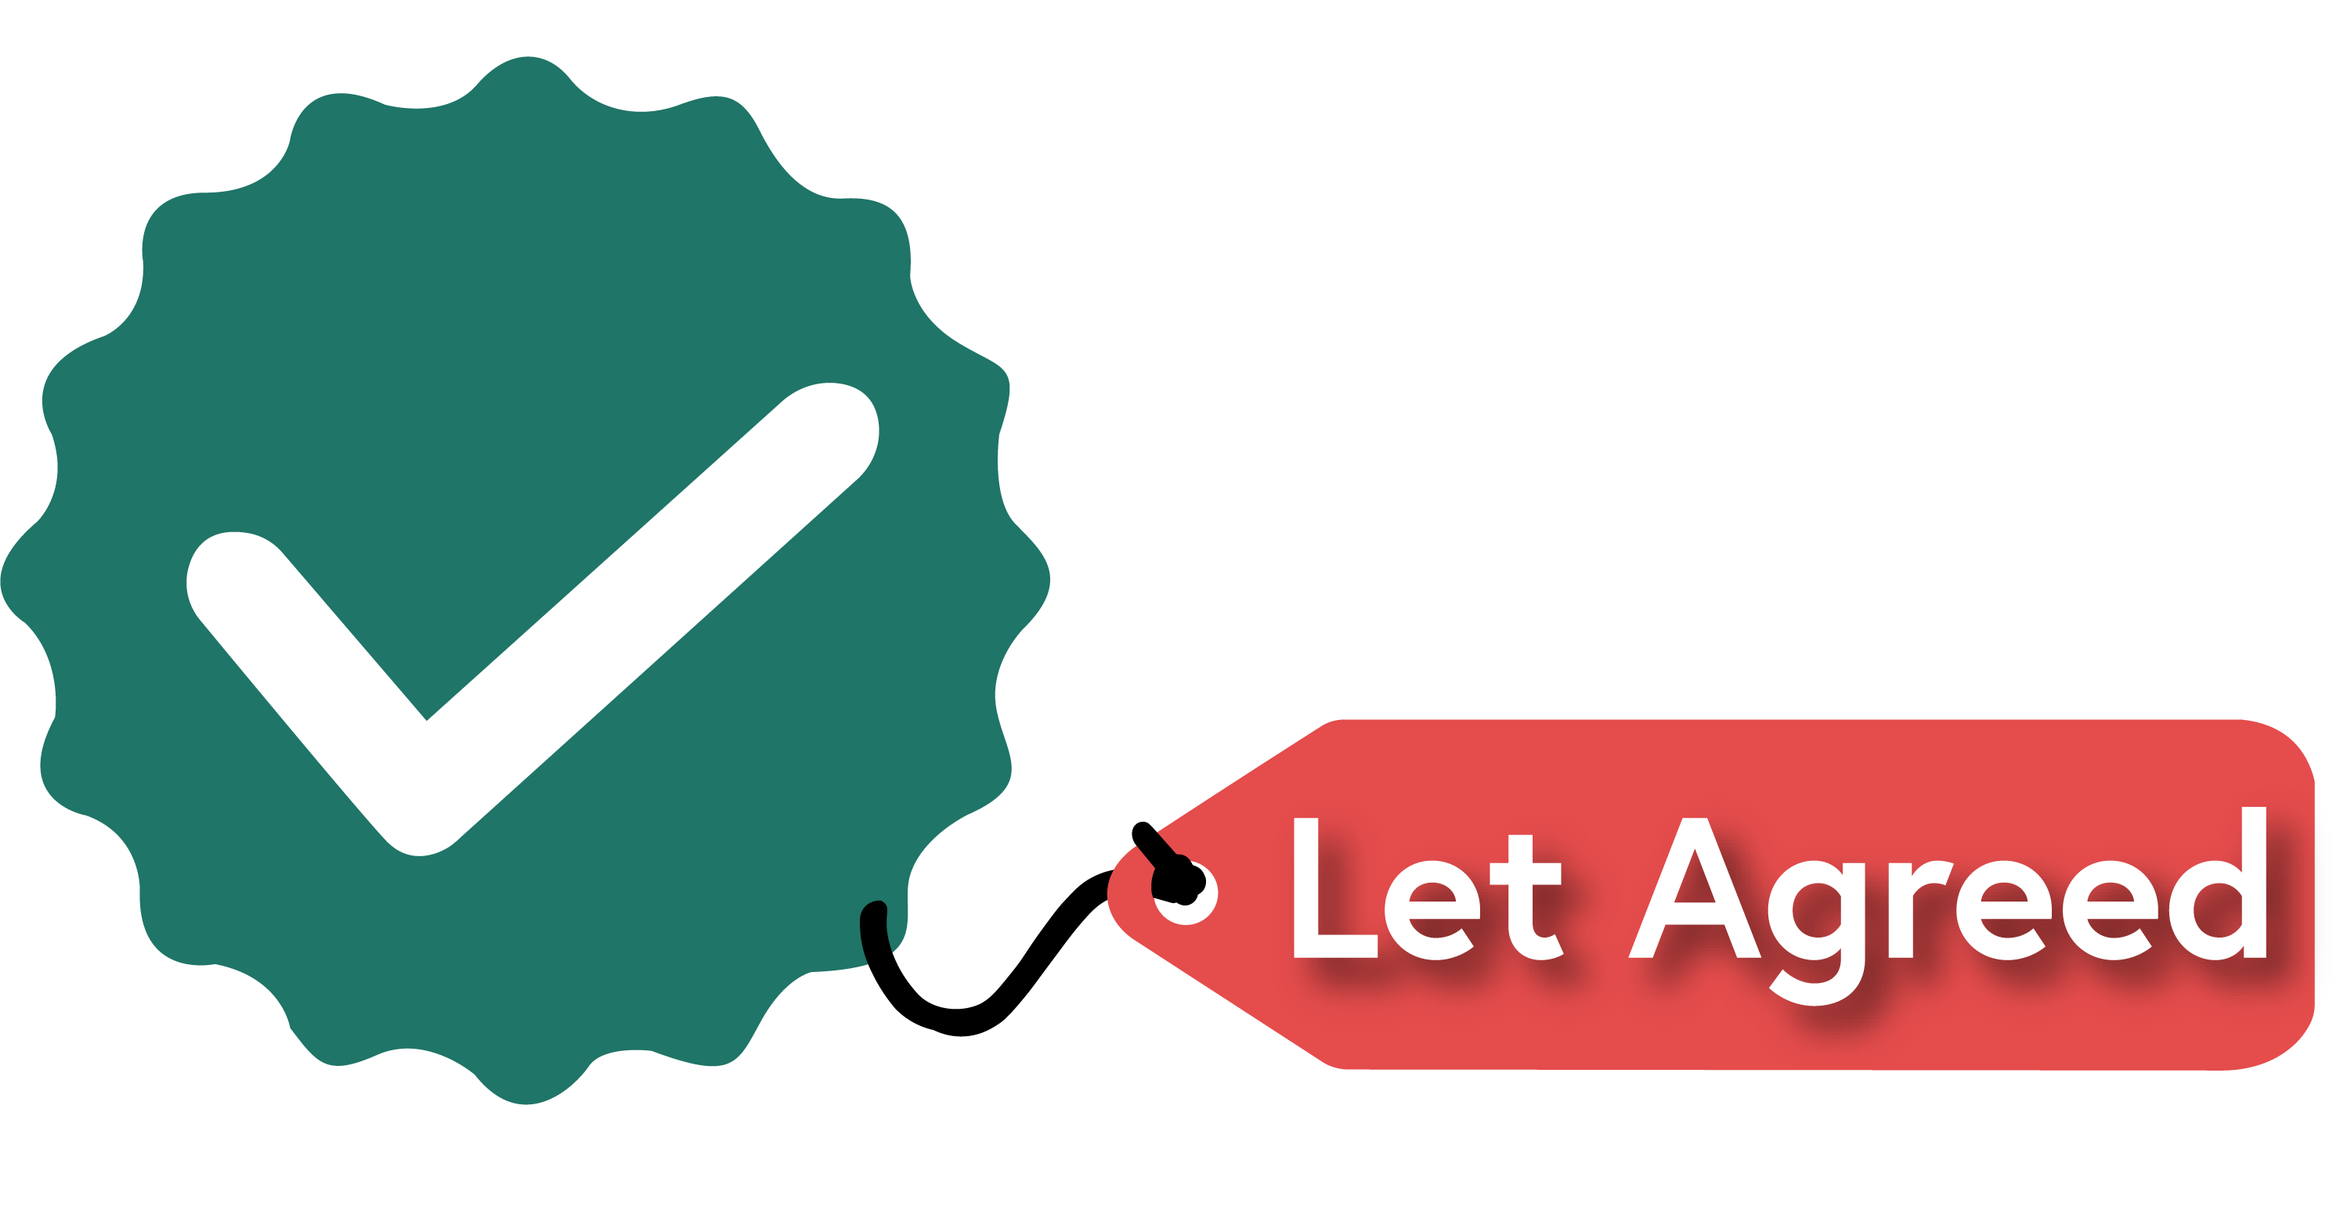
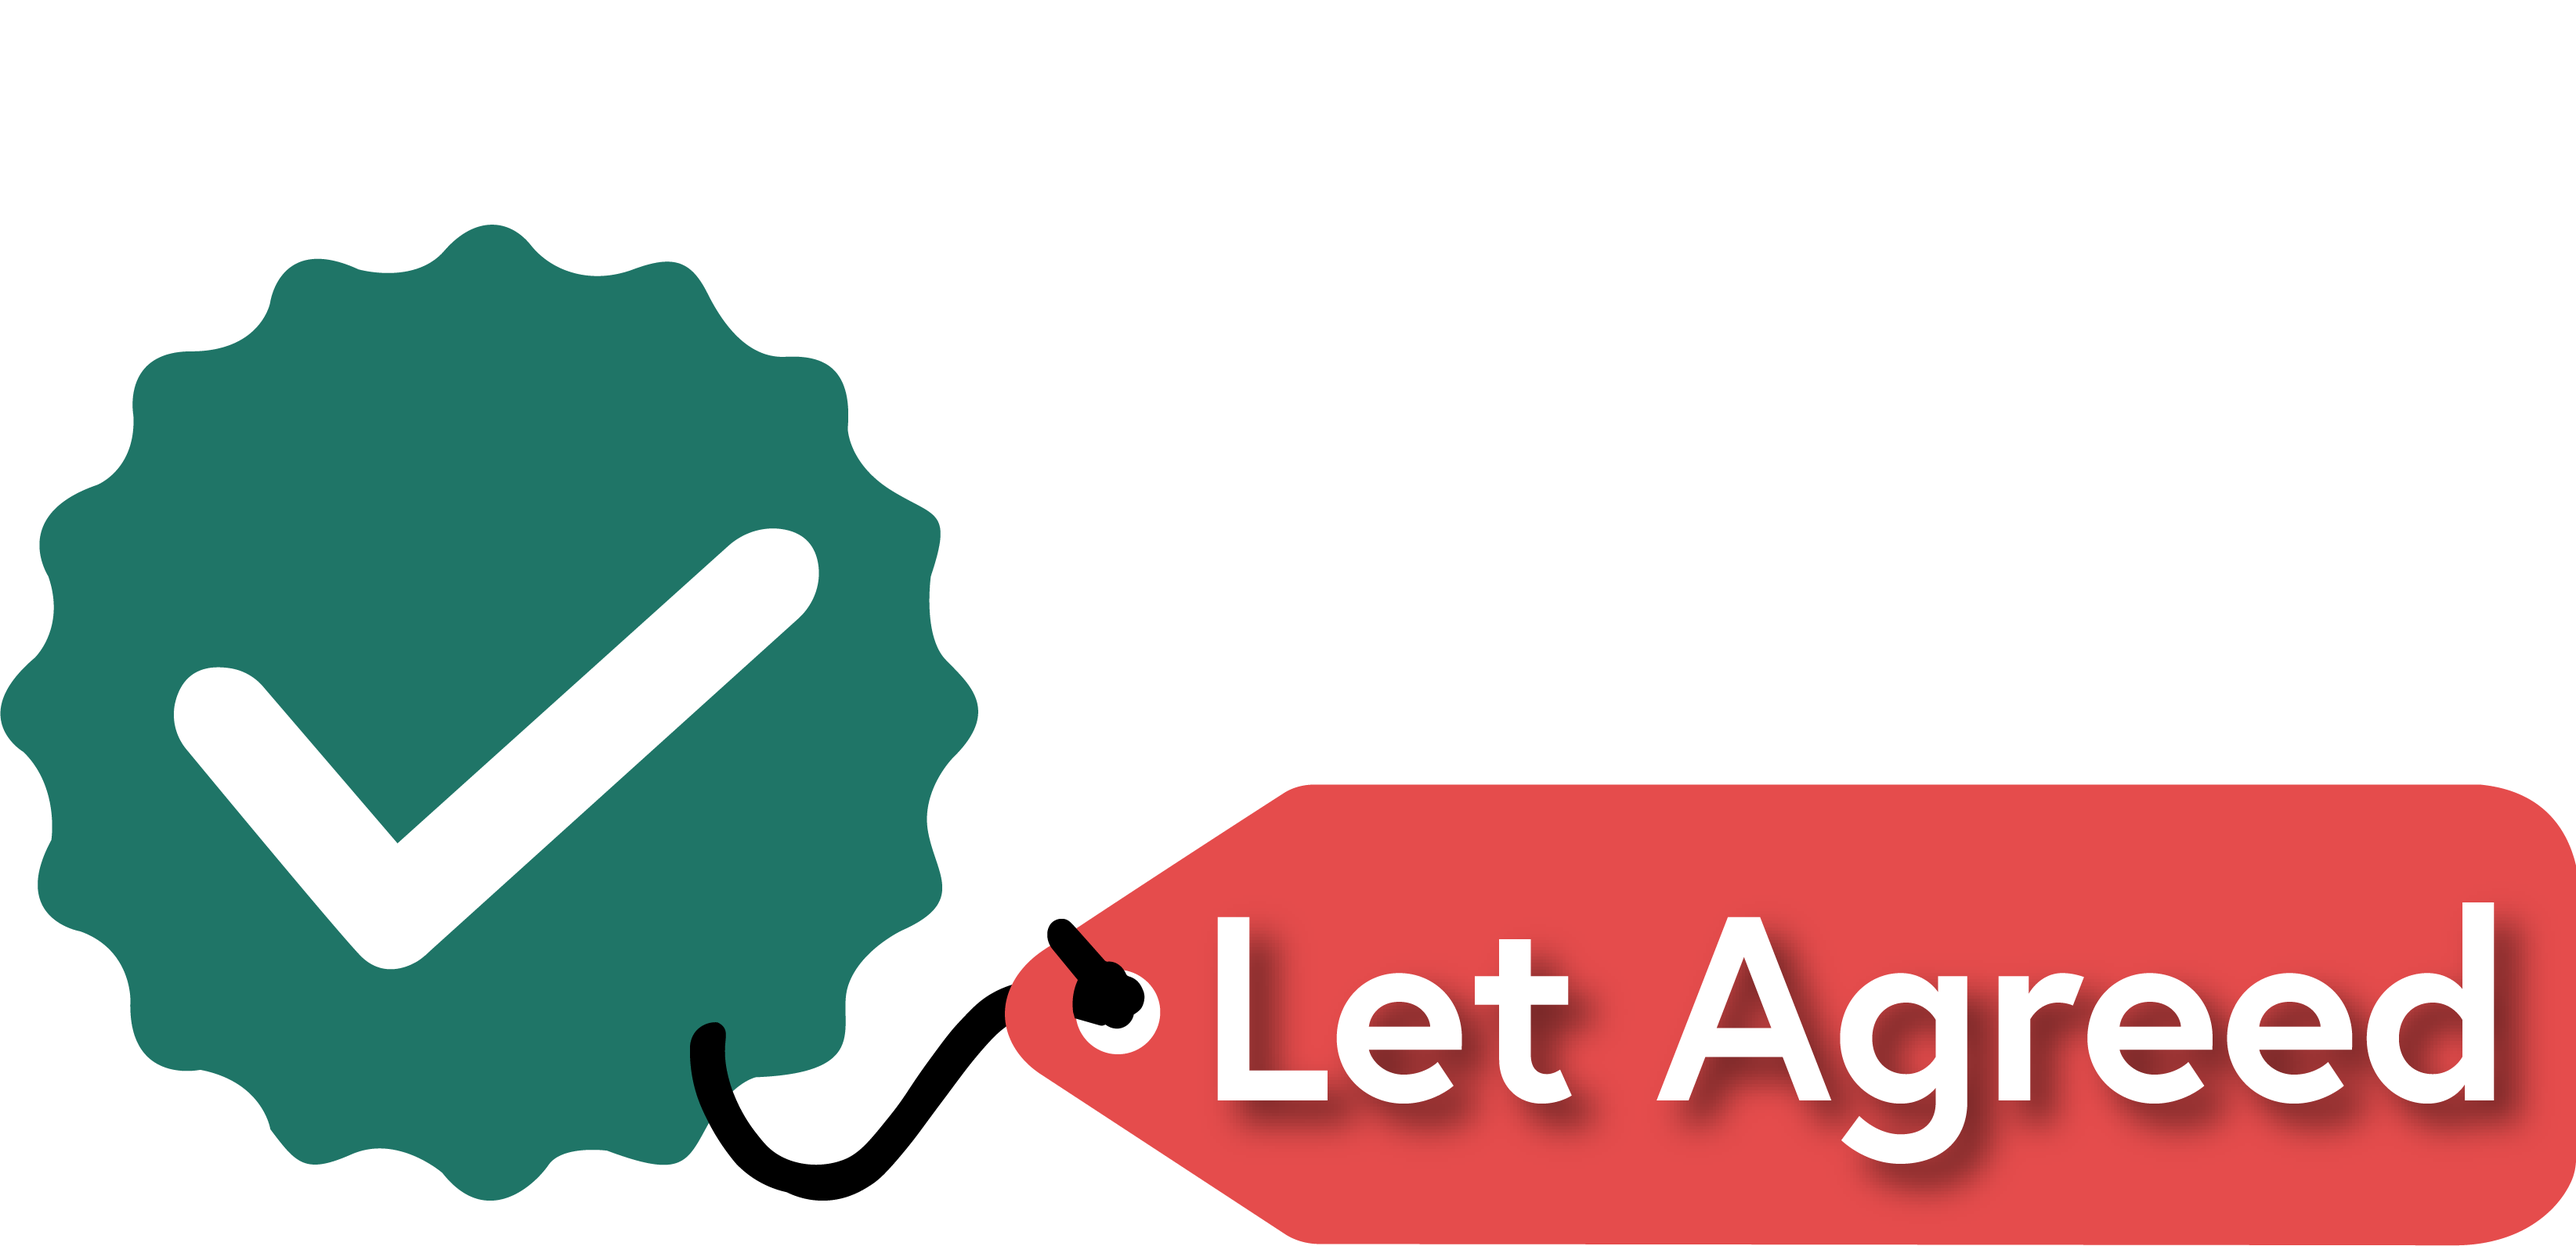
RMH

diff --git a/ht/counterProject.html b/ht/counterProject.html
@@ -1,128 +1,123 @@
 <!DOCTYPE html>
 <html lang="en">
-  <head>
-    <meta charset="UTF-8" />
-    <meta name="viewport" content="width=device-width, initial-scale=1.0" />
-    <title>Counter Project</title>
-    <link rel="preconnect" href="https://fonts.googleapis.com" />
-    <link rel="preconnect" href="https://fonts.gstatic.com" crossorigin />
-    <link
-      href="https://fonts.googleapis.com/css2?family=Roboto:wght@700&display=swap"
-      rel="stylesheet"
-    />
-    <link
-      rel="stylesheet"
-      href="https://fonts.googleapis.com/css2?family=Material+Symbols+Outlined:opsz,wght,FILL,GRAD@20..48,100..700,0..1,-50..200"
-    />
-    <link href="https://unpkg.com/aos@2.3.1/dist/aos.css" rel="stylesheet" />
-    <link
-      rel="stylesheet"
-      href="https://cdnjs.cloudflare.com/ajax/libs/animate.css/4.1.1/animate.min.css"
-    />
-    <script src="https://unpkg.com/aos@2.3.1/dist/aos.js"></script>
-    <style>
-      body {
-        margin: 0px;
-        padding: 0px;
-        box-sizing: border-box;
-        font-size: 2rem;
-        font-weight: 600;
-        font-family: "Roboto", sans-serif;
-        align-items: center;
-      }
-      #headDiv {
-        border-top: 5rem solid lightblue;
-        border-bottom: 5rem solid lightblue;
-        width: 300px;
-        margin: 3rem auto;
-        border-radius: 15px;
-      }
-      #panel {
-        display: flex;
-        justify-content: center;
-        align-items: center;
-        gap: 2rem;
-        margin-bottom: 3rem;
-      }
-      .minus,
-      .plus {
-        width: 100px;
-        height: 50px;
-        background-color: lightblue;
-        color: #fff;
-        display: flex;
-        justify-content: center;
-        align-items: center;
-        border: none;
-        font-size: 3rem;
-        cursor: pointer;
-      }
-      .reset {
-        width: 100px;
-        height: 50px;
-        border: 3px solid lightblue;
-        display: flex;
-        justify-content: center;
-        align-items: center;
-        background-color: transparent;
-        cursor: pointer;
-      }
-      .material-symbols-outlined {
-        font-size: 2.5rem;
-        color: lightblue;
-      }
-    </style>
-  </head>
-  <body>
-    <img src="../RMH-let-agreed.png" alt="">
-    <h1 style="text-align: center" class="animate__animated animate__swing">
-      Counter Project
-    </h1>
-    <div
-      style="text-align: center"
-      id="headDiv"
-      data-aos="fade-up"
-      data-aos-duration="3000"
-    >
-      <p id="p" class="animate__animated animate__backInUp">Click On Plus</p>
-      <div id="panel">
-        <!-- Minus -->
-        <button class="minus" id="min">-</button>
-        <!-- Reset -->
-        <button class="reset" id="res">
-          <i class="material-symbols-outlined"> restart_alt </i>
-        </button>
-        <!-- Plus -->
-        <button class="plus" id="max">+</button>
-      </div>
+
+<head>
+  <meta charset="UTF-8" />
+  <meta name="viewport" content="width=device-width, initial-scale=1.0" />
+  <title>Counter Project</title>
+  <link rel="preconnect" href="https://fonts.googleapis.com" />
+  <link rel="preconnect" href="https://fonts.gstatic.com" crossorigin />
+  <link href="https://fonts.googleapis.com/css2?family=Roboto:wght@700&display=swap" rel="stylesheet" />
+  <link rel="stylesheet"
+    href="https://fonts.googleapis.com/css2?family=Material+Symbols+Outlined:opsz,wght,FILL,GRAD@20..48,100..700,0..1,-50..200" />
+  <link href="https://unpkg.com/aos@2.3.1/dist/aos.css" rel="stylesheet" />
+  <link rel="stylesheet" href="https://cdnjs.cloudflare.com/ajax/libs/animate.css/4.1.1/animate.min.css" />
+  <script src="https://unpkg.com/aos@2.3.1/dist/aos.js"></script>
+  <style>
+    body {
+      margin: 0px;
+      padding: 0px;
+      box-sizing: border-box;
+      font-size: 2rem;
+      font-weight: 600;
+      font-family: "Roboto", sans-serif;
+      align-items: center;
+    }
+
+    #headDiv {
+      border-top: 5rem solid lightblue;
+      border-bottom: 5rem solid lightblue;
+      width: 300px;
+      margin: 3rem auto;
+      border-radius: 15px;
+    }
+
+    #panel {
+      display: flex;
+      justify-content: center;
+      align-items: center;
+      gap: 2rem;
+      margin-bottom: 3rem;
+    }
+
+    .minus,
+    .plus {
+      width: 100px;
+      height: 50px;
+      background-color: lightblue;
+      color: #fff;
+      display: flex;
+      justify-content: center;
+      align-items: center;
+      border: none;
+      font-size: 3rem;
+      cursor: pointer;
+    }
+
+    .reset {
+      width: 100px;
+      height: 50px;
+      border: 3px solid lightblue;
+      display: flex;
+      justify-content: center;
+      align-items: center;
+      background-color: transparent;
+      cursor: pointer;
+    }
+
+    .material-symbols-outlined {
+      font-size: 2.5rem;
+      color: lightblue;
+    }
+  </style>
+</head>
+
+<body>
+  <img src="../RMH-let-agreed.png" alt="" width="200">
+  <h1 style="text-align: center" class="animate__animated animate__swing">
+    Counter Project
+  </h1>
+  <div style="text-align: center" id="headDiv" data-aos="fade-up" data-aos-duration="3000">
+    <p id="p" class="animate__animated animate__backInUp">Click On Plus</p>
+    <div id="panel">
+      <!-- Minus -->
+      <button class="minus" id="min">-</button>
+      <!-- Reset -->
+      <button class="reset" id="res">
+        <i class="material-symbols-outlined"> restart_alt </i>
+      </button>
+      <!-- Plus -->
+      <button class="plus" id="max">+</button>
     </div>
-    <script>
-      let decre = document.getElementById("min");
-      let incre = document.getElementById("max");
-      let clear = document.getElementById("res");
-      let value = document.getElementById("p");
+  </div>
+  <script>
+    let decre = document.getElementById("min");
+    let incre = document.getElementById("max");
+    let clear = document.getElementById("res");
+    let value = document.getElementById("p");
 
-      let answer = "";
-      // Decrement
-      decre.addEventListener("click", (e) => {
-        answer--;
-        value.innerText = answer;
-      });
+    let answer = "";
+    // Decrement
+    decre.addEventListener("click", (e) => {
+      answer--;
+      value.innerText = answer;
+    });
 
-      // Increment
-      incre.addEventListener("click", (e) => {
-        answer++;
-        value.innerText = answer;
-      });
+    // Increment
+    incre.addEventListener("click", (e) => {
+      answer++;
+      value.innerText = answer;
+    });
 
-      // Reset Value
-      clear.addEventListener("click", (e) => {
-        answer = 0;
-        value.innerText = "0";
-      });
-    </script>
-    <script>
-      AOS.init();
-    </script>
-  </body>
+    // Reset Value
+    clear.addEventListener("click", (e) => {
+      answer = 0;
+      value.innerText = "0";
+    });
+  </script>
+  <script>
+    AOS.init();
+  </script>
+</body>
+
 </html>
